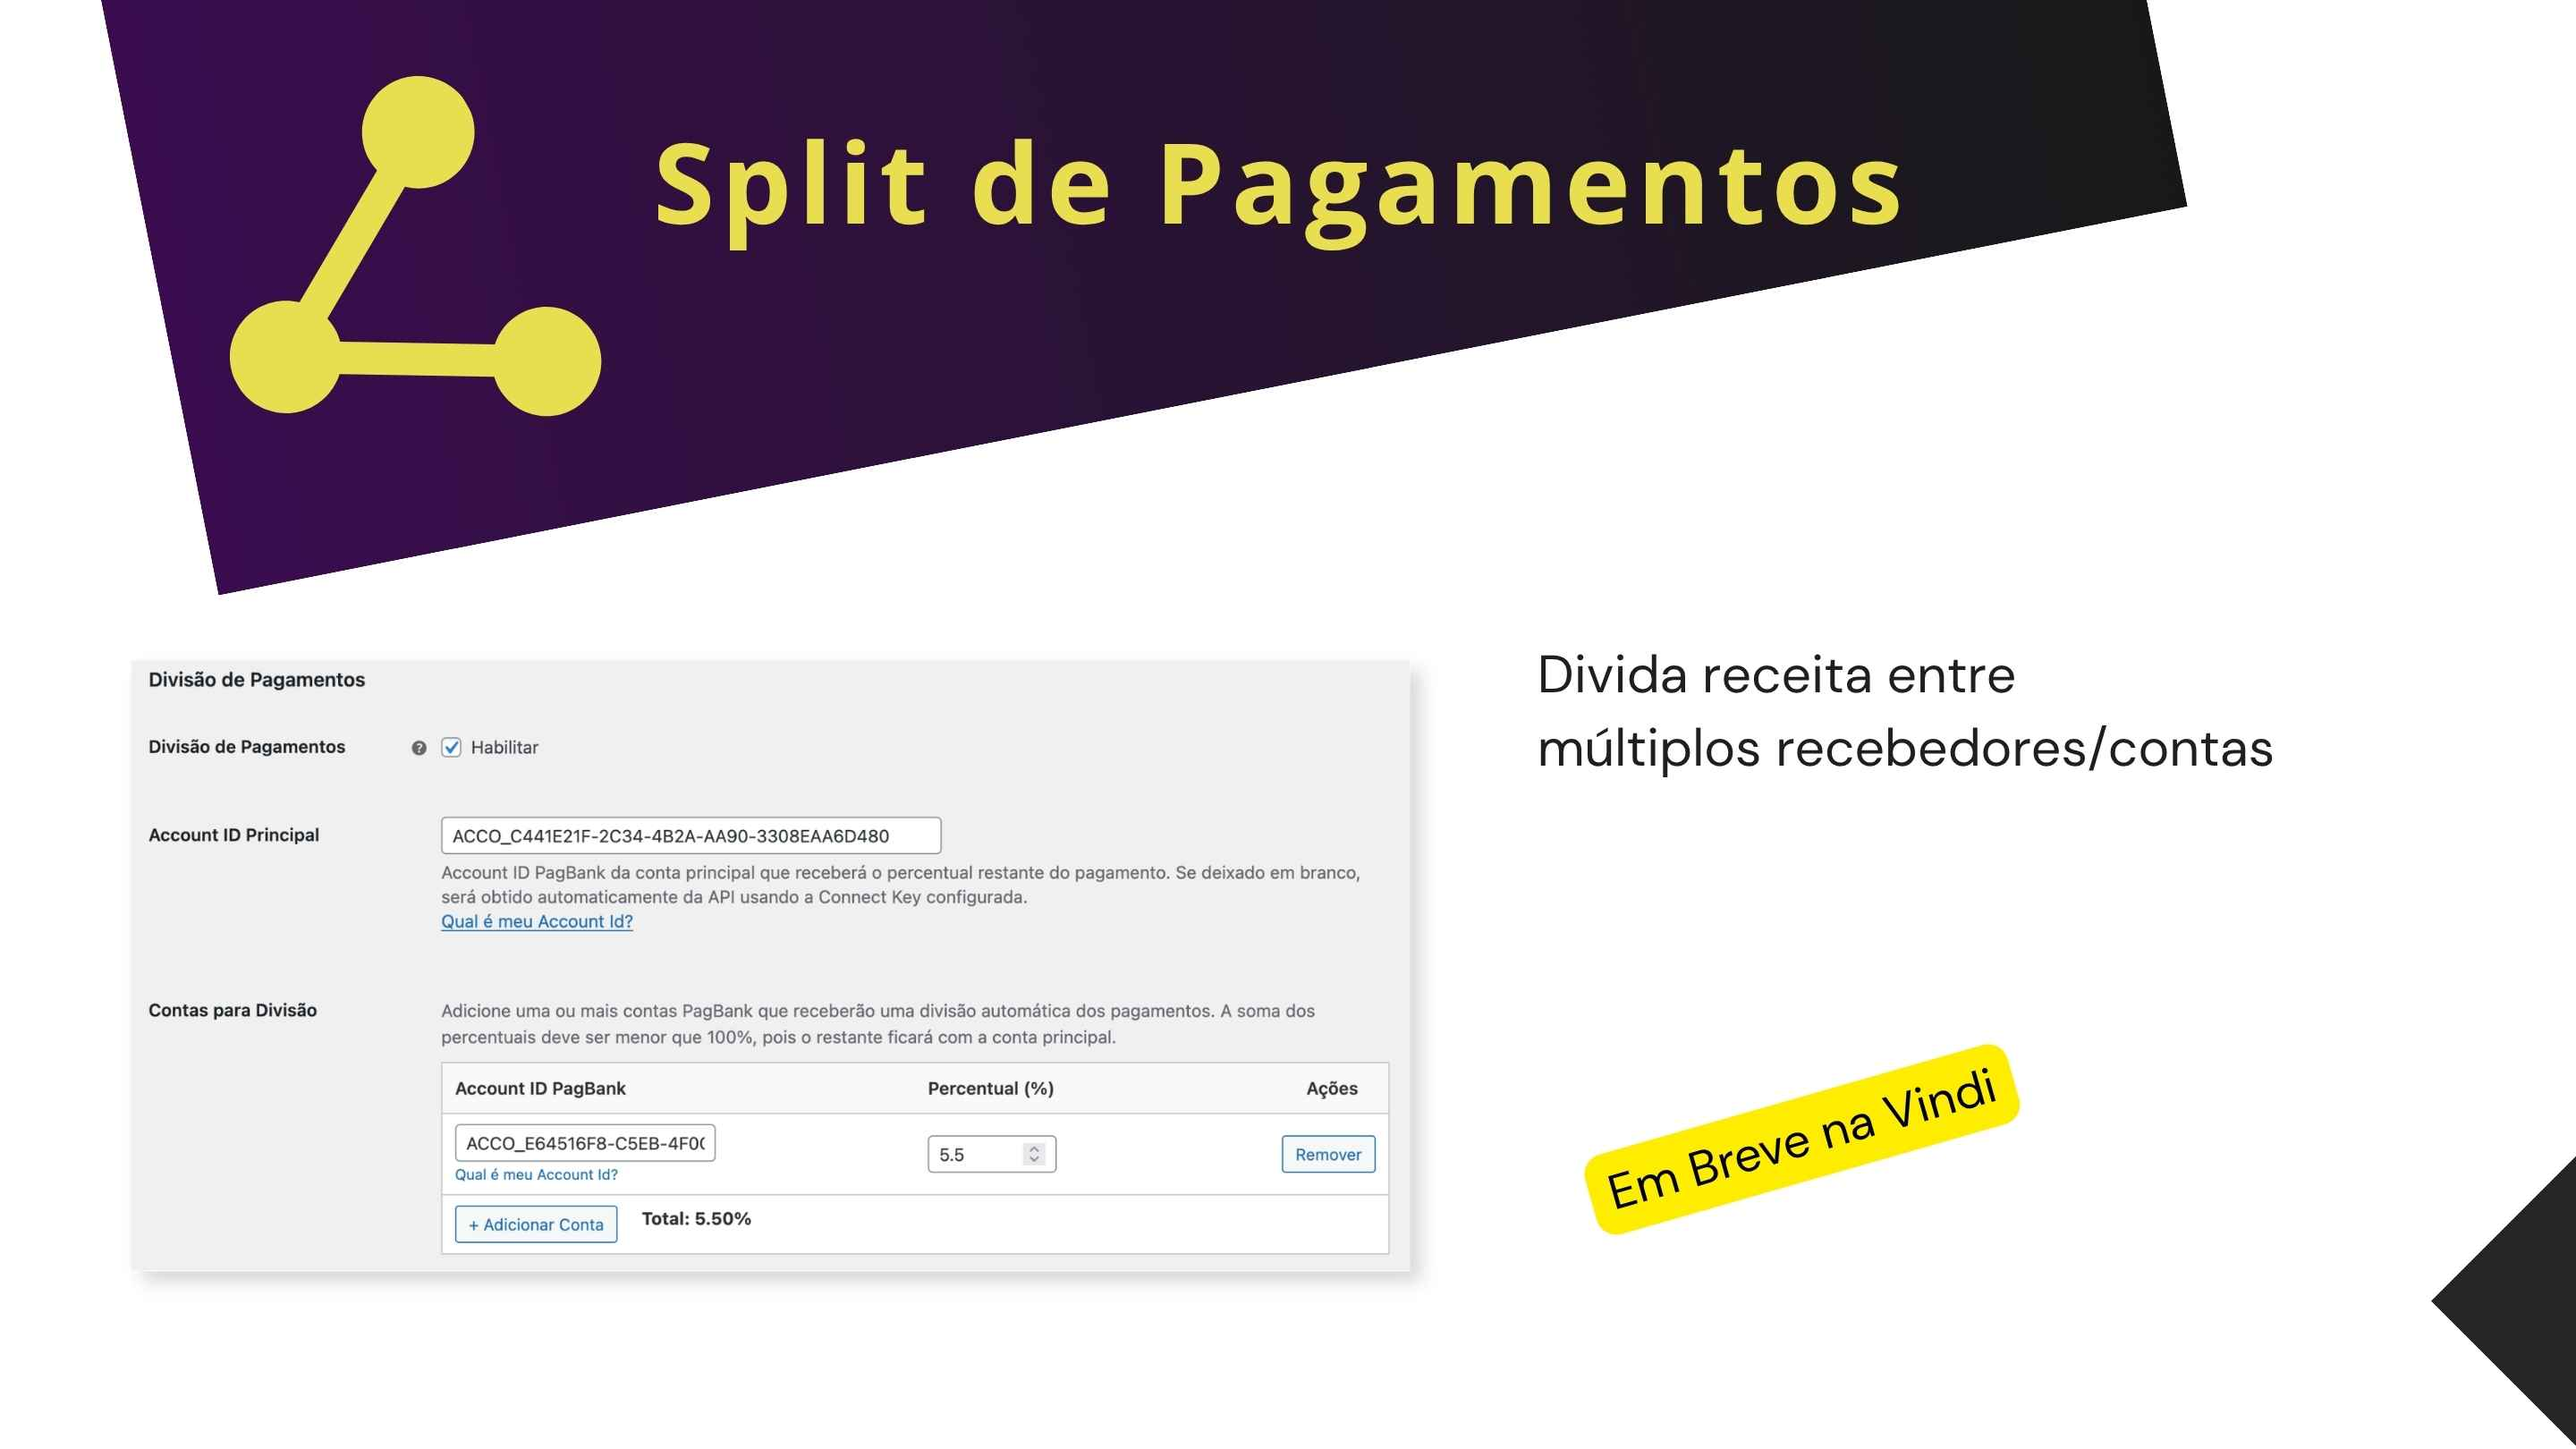
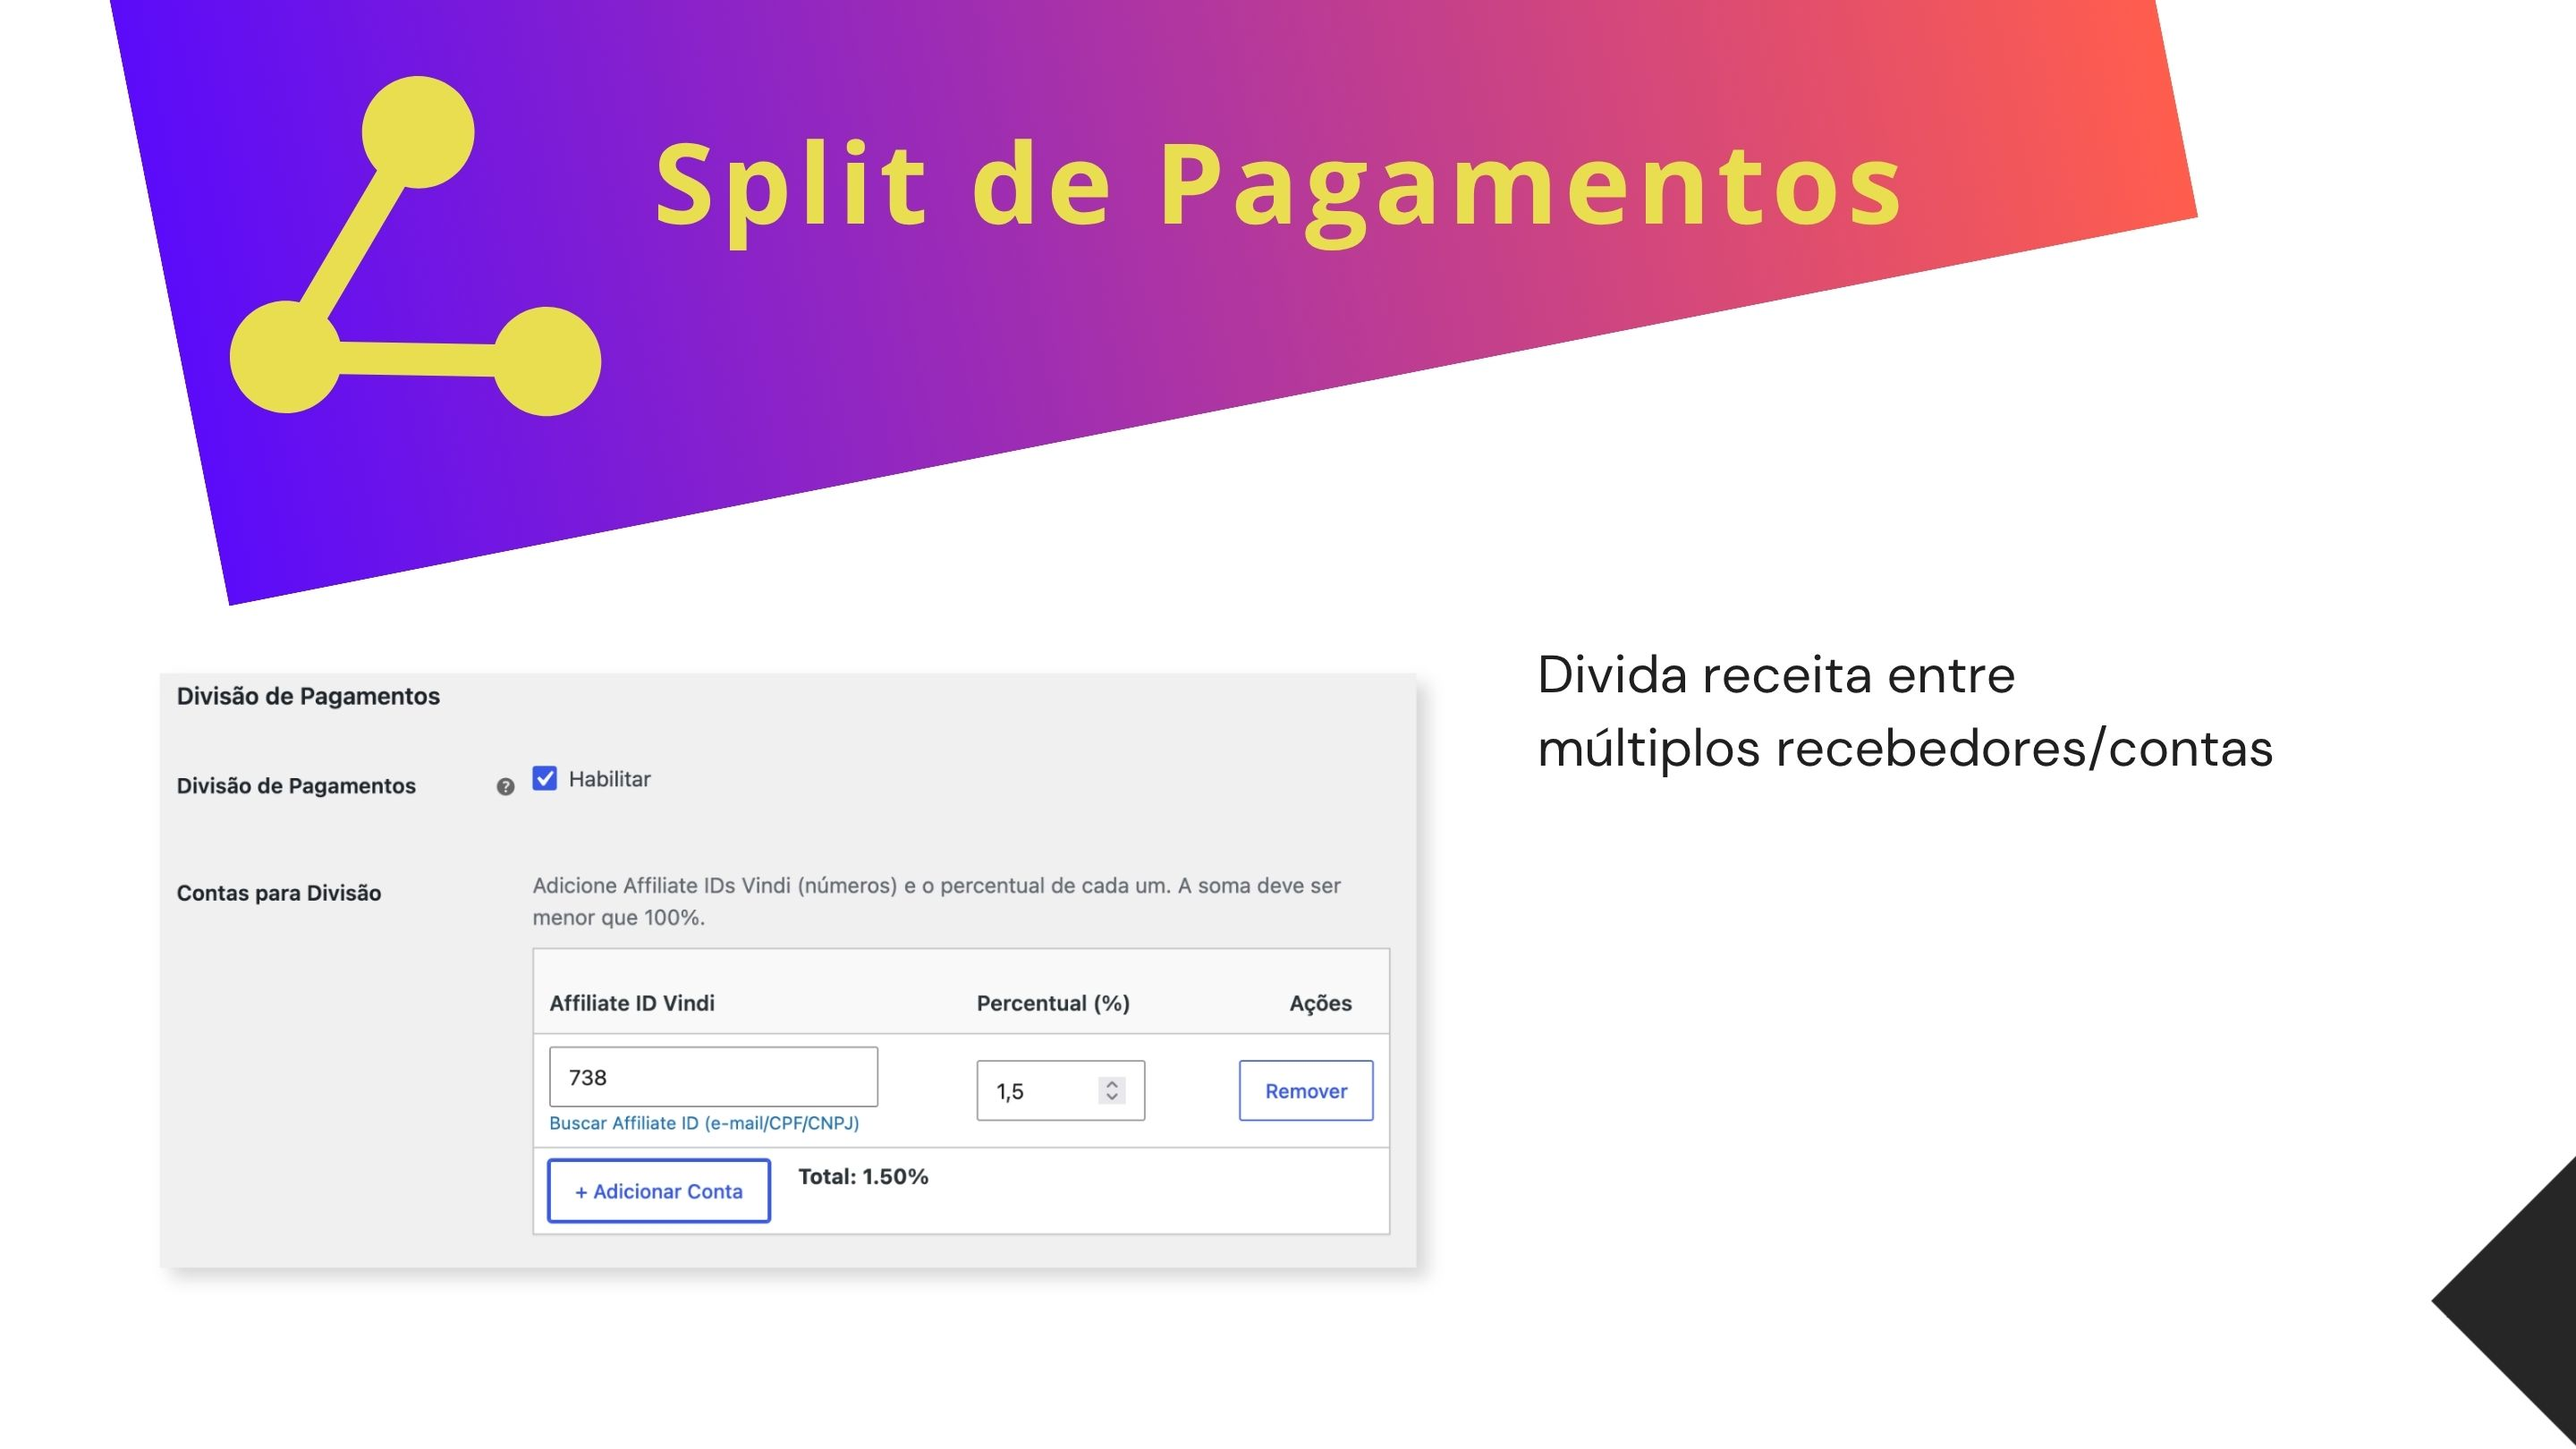
v. 5.1.1 * Correção: assinaturas Vindi — cria o `payment_profile` antes da primeira cobrança recorrente (o `gateway_token` expira em poucos minutos se não for persistido). * Correção: no checkout em Blocos, o texto/total da recorrência passa a atualizar quando frete ou cupom alteram o valor do carri

diff --git a/rm-pagbank.php b/rm-pagbank.php
@@ -11,7 +11,7 @@
  * Plugin Name:       PB Integrações (antigo PagBank Connect)
  * Plugin URI:        https://pbintegracoes.com
  * Description:       Integra seu WooCommerce com Vindi, PagBank e os melhores provedores de pagamento (com descontos nas taxas oficiais), e com suporte a PIX transparente, Recorrência e muito mais.
- * Version:           5.1.0
+ * Version:           5.1.1
  * Requires at least: 5.2
  * Tested up to:      7.1
  * Requires PHP:      7.4
@@ -34,7 +34,7 @@ use RM_PagBank\EnvioFacil;
 defined( 'ABSPATH' ) || die( 'No direct script access allowed!' );
 
 // Plugin constants.
-define( 'WC_PAGSEGURO_CONNECT_VERSION', '5.1.0' );
+define( 'WC_PAGSEGURO_CONNECT_VERSION', '5.1.1' );
 define( 'WC_PAGSEGURO_CONNECT_PLUGIN_FILE', __FILE__ );
 define( 'WC_PAGSEGURO_CONNECT_BASE_DIR', __DIR__ );
 define( 'WC_PAGSEGURO_CONNECT_TEMPLATES_DIR', WC_PAGSEGURO_CONNECT_BASE_DIR . '/src/templates/' );
